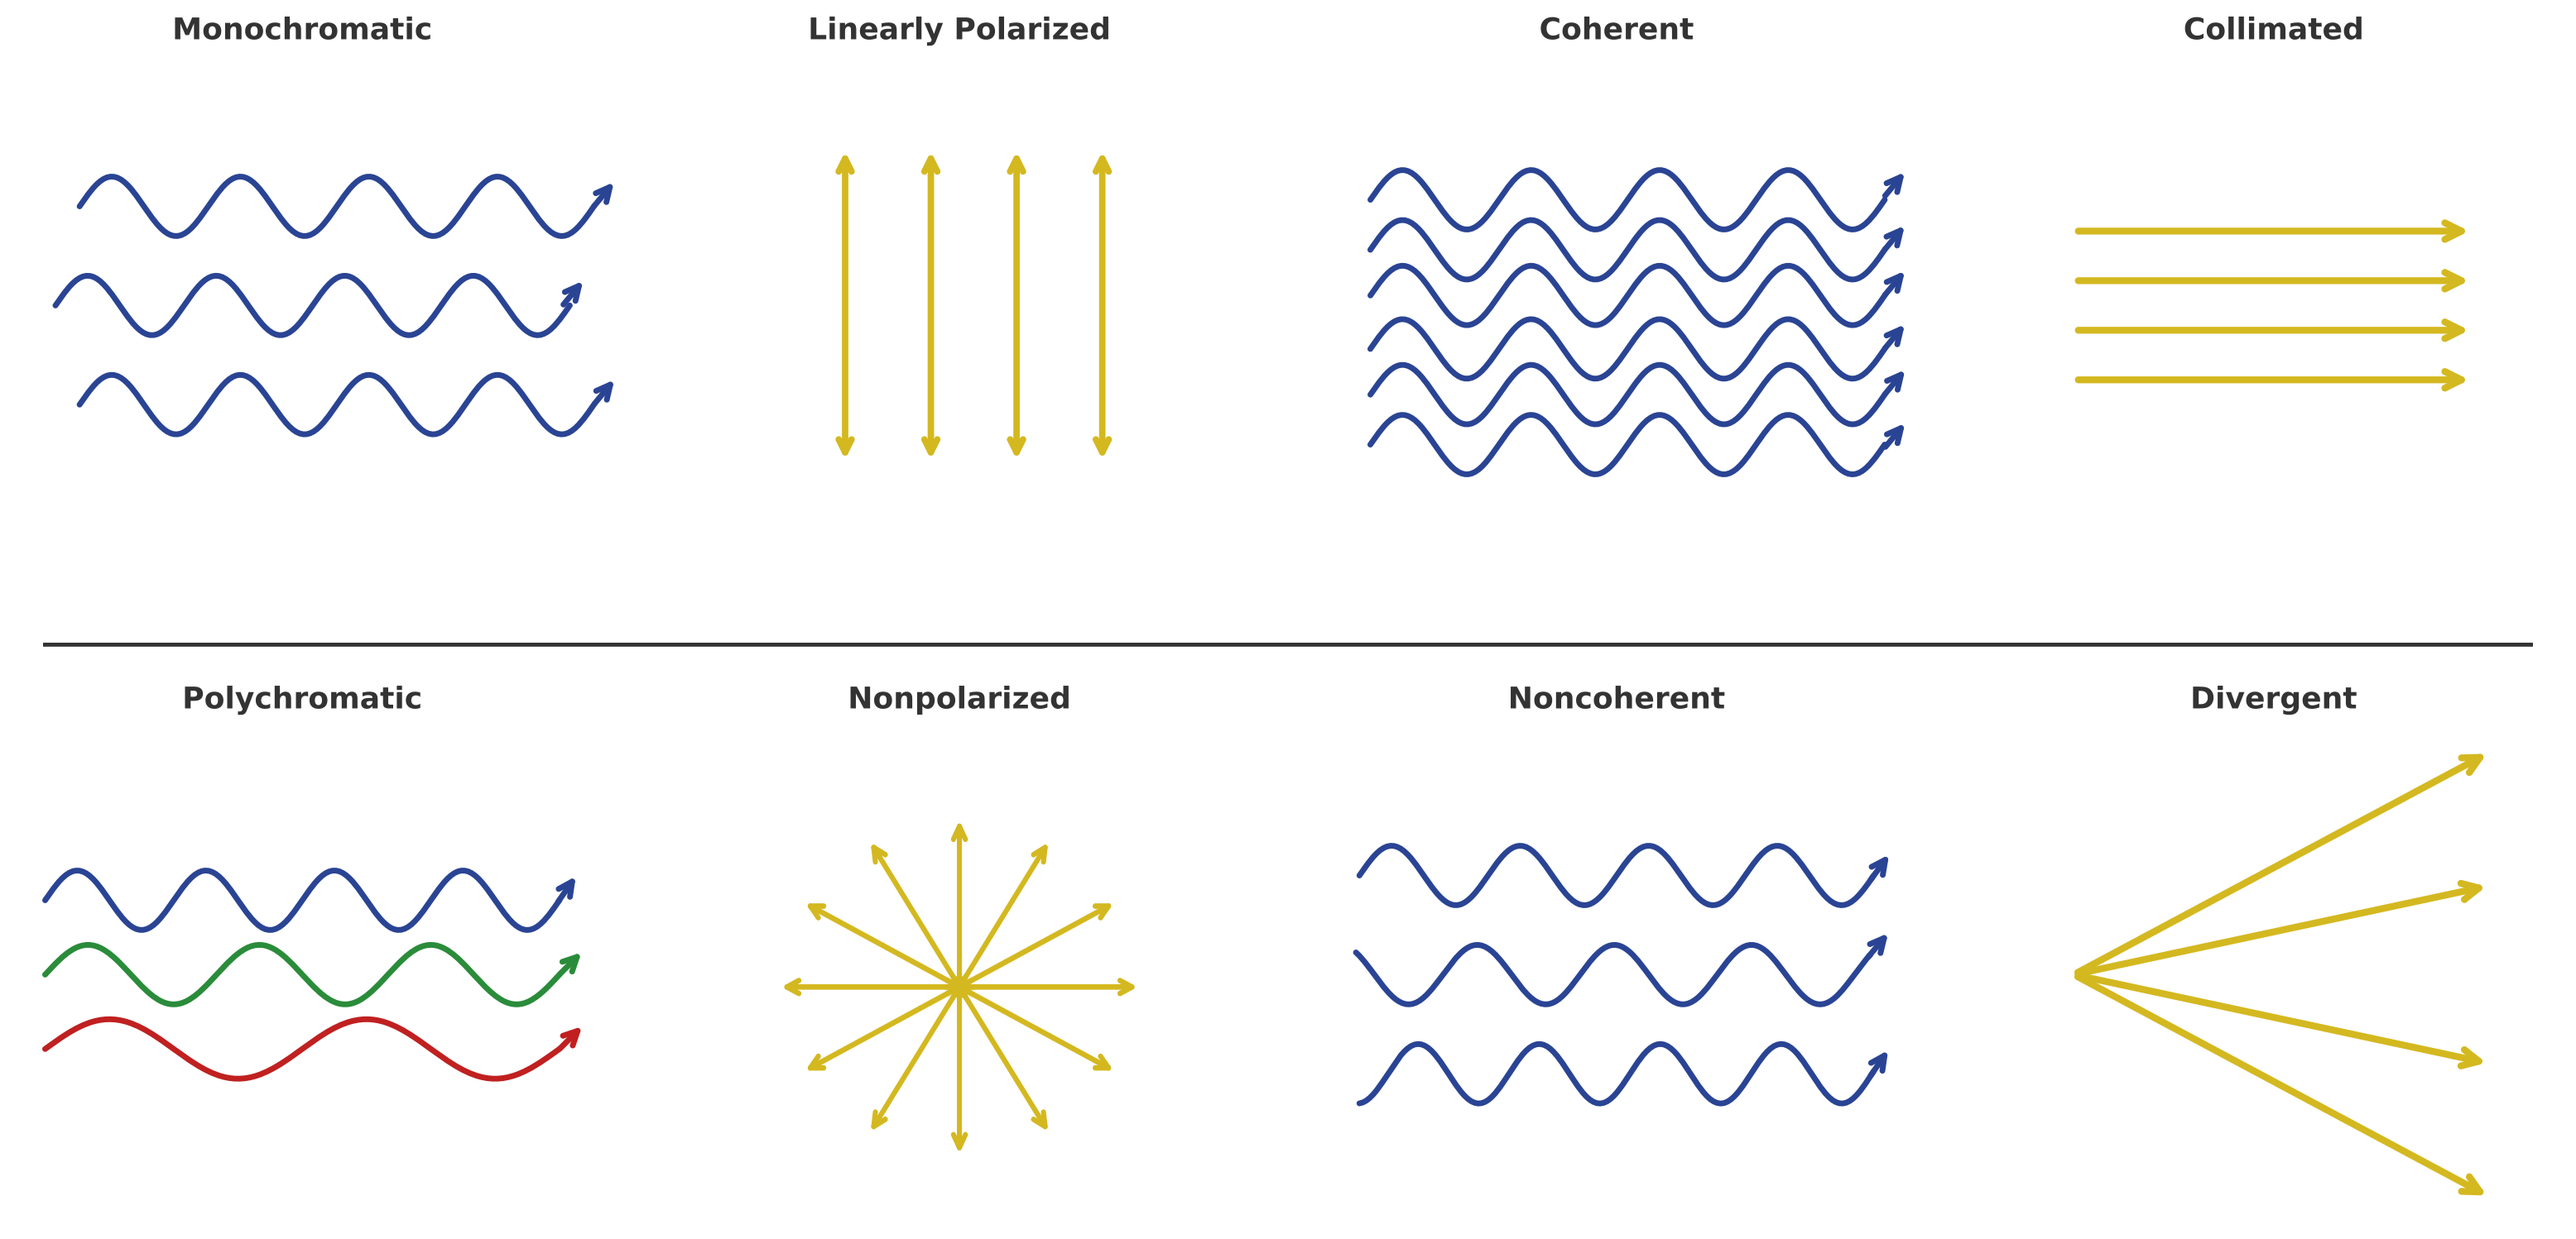
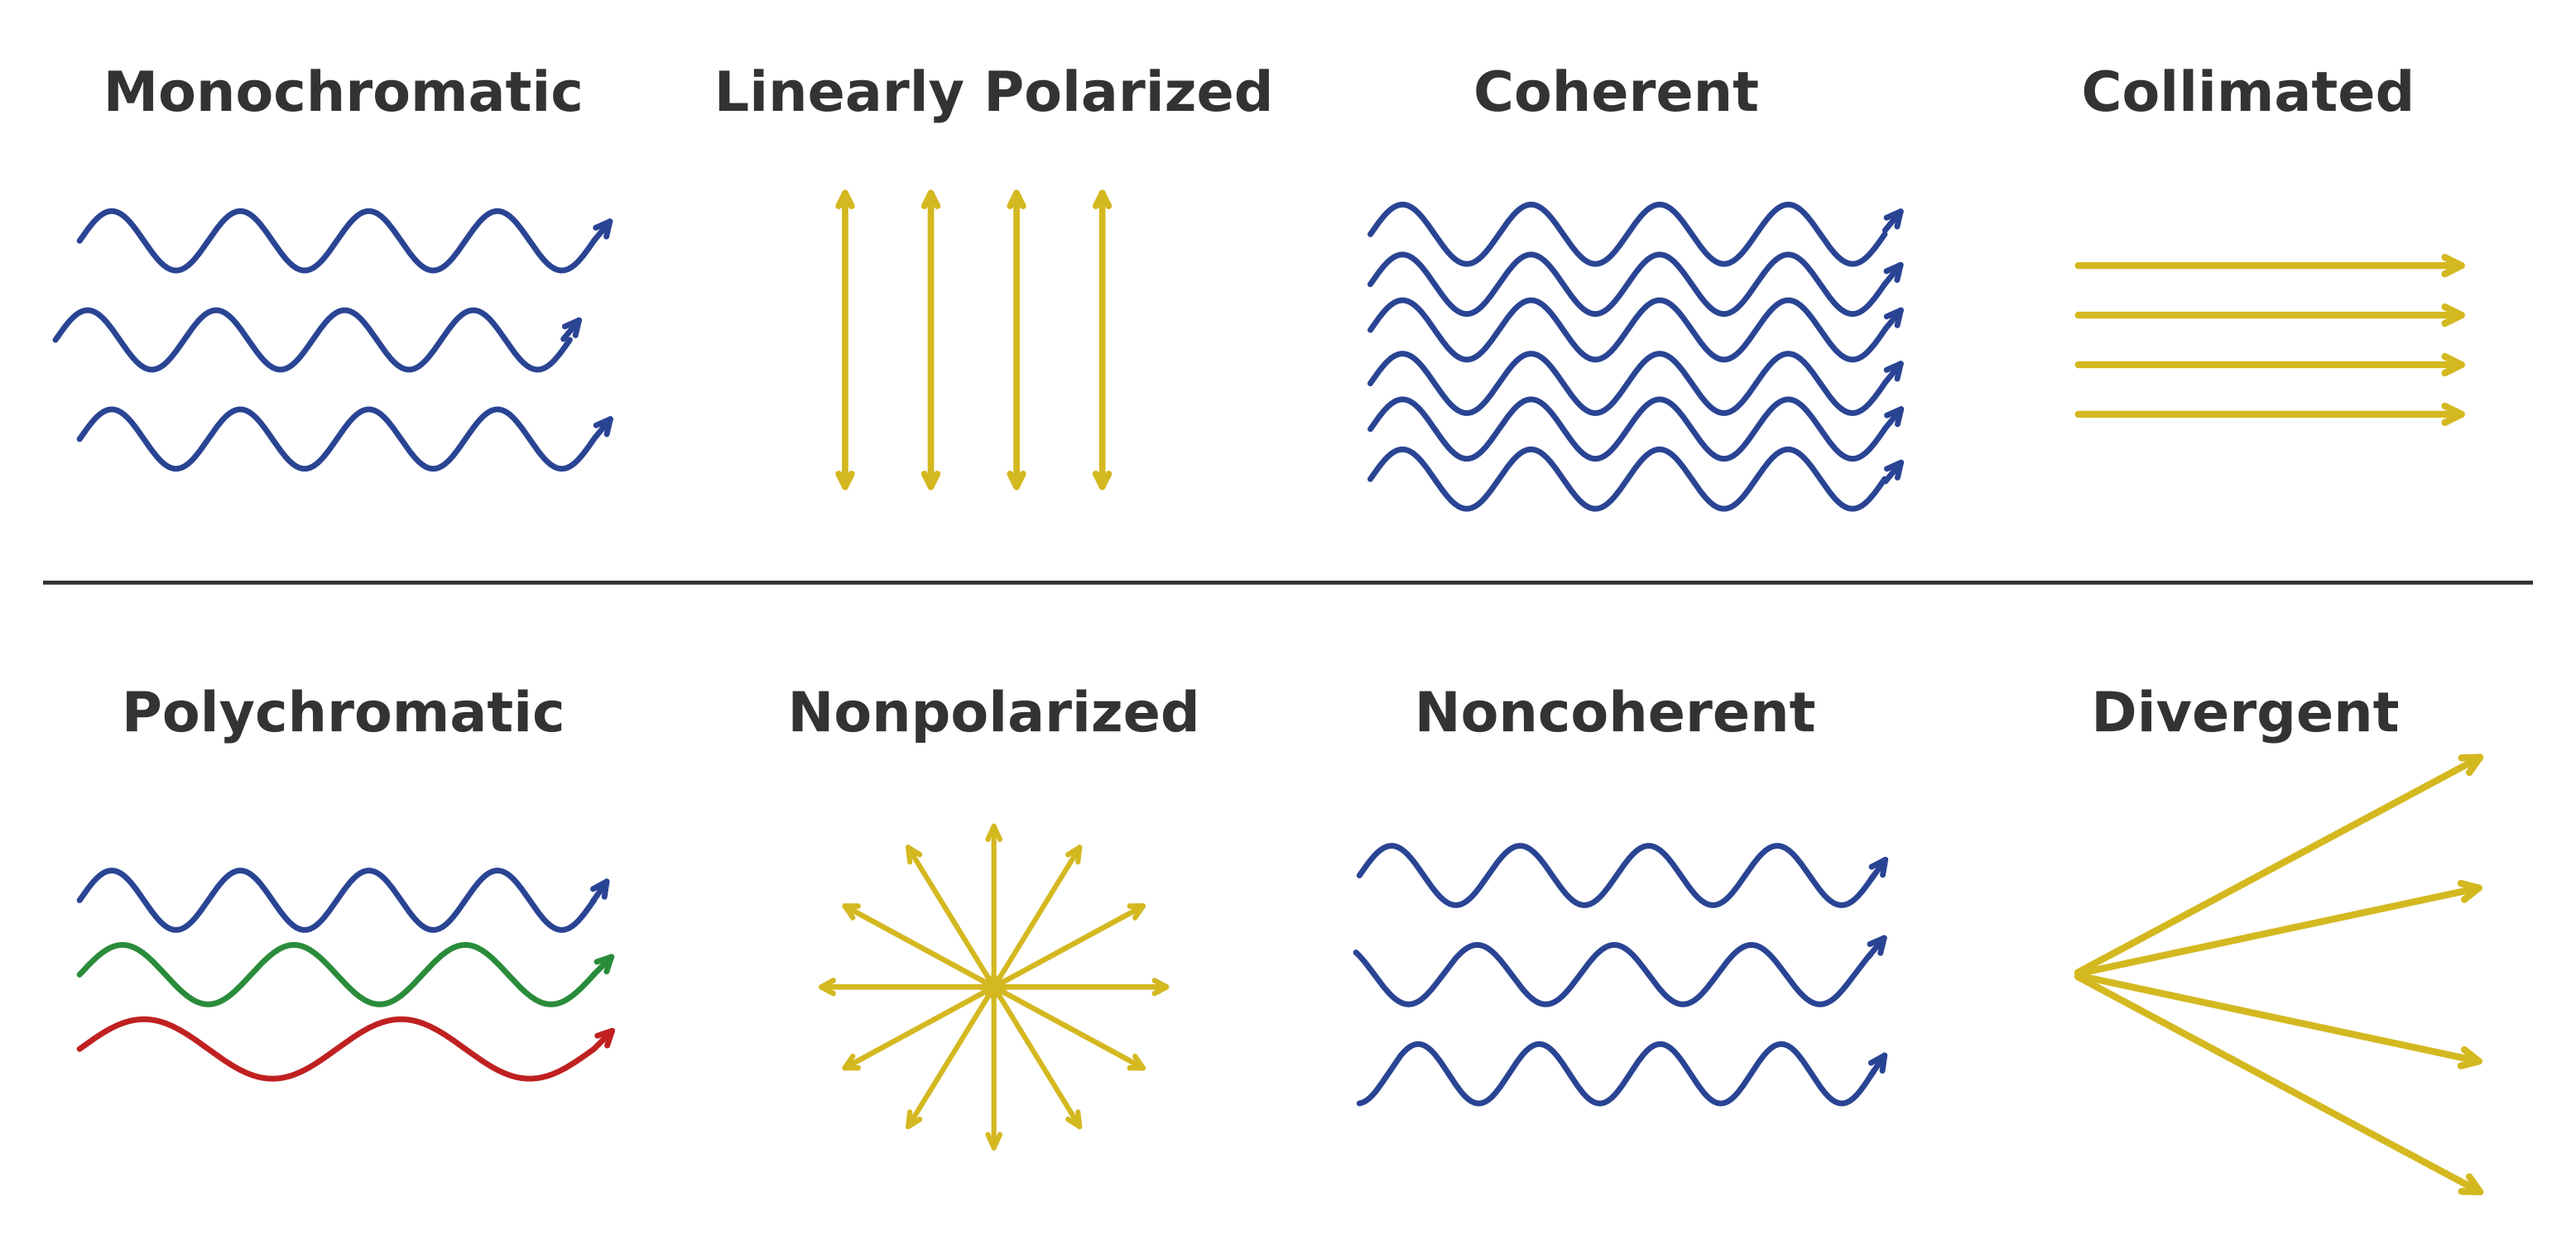
update

diff --git a/book/content/chap1_4.md b/book/content/chap1_4.md
@@ -78,7 +78,7 @@ Before moving on, here is some vocabulary that cuts across all three description
 
 ```{figure} ../figures/light_properties.png
 ---
-width: 80%
+width: 90%
 name: light_properties
 align: center
 ---
@@ -91,7 +91,7 @@ When light encounters matter, a range of things can happen: it can be **transmit
 
 ```{figure} ../figures/light_matter.png
 ---
-width: 80%
+width: 90%
 name: light_matter
 align: center
 ---
